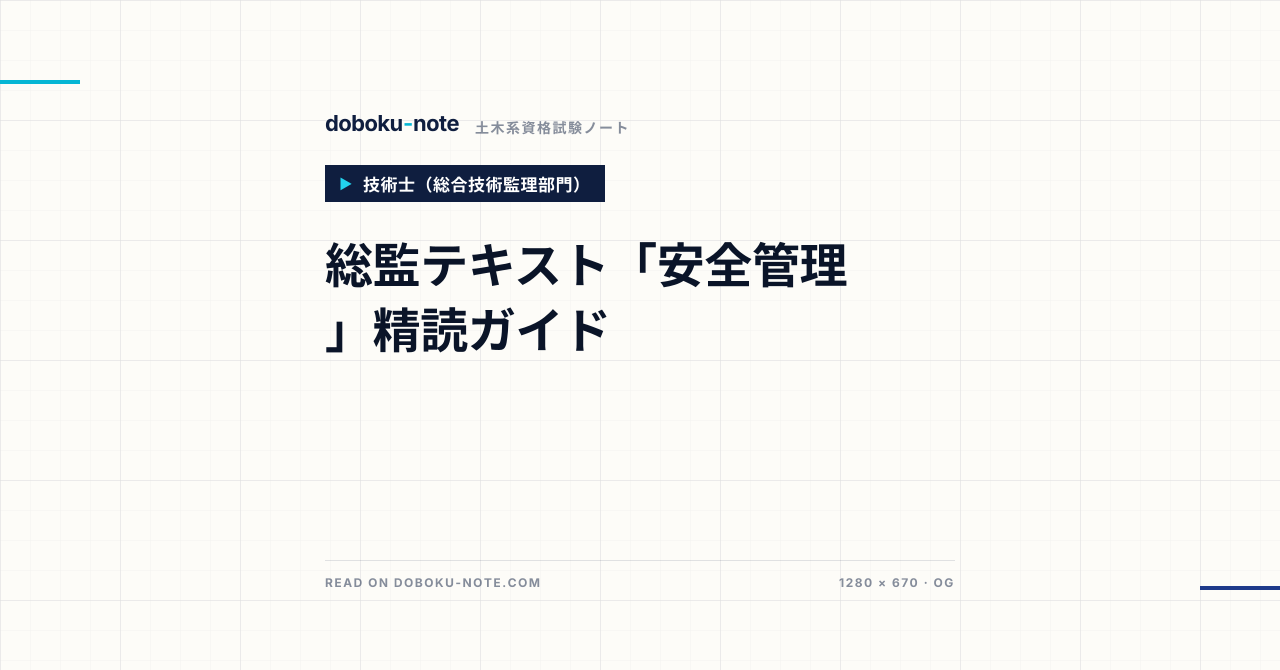
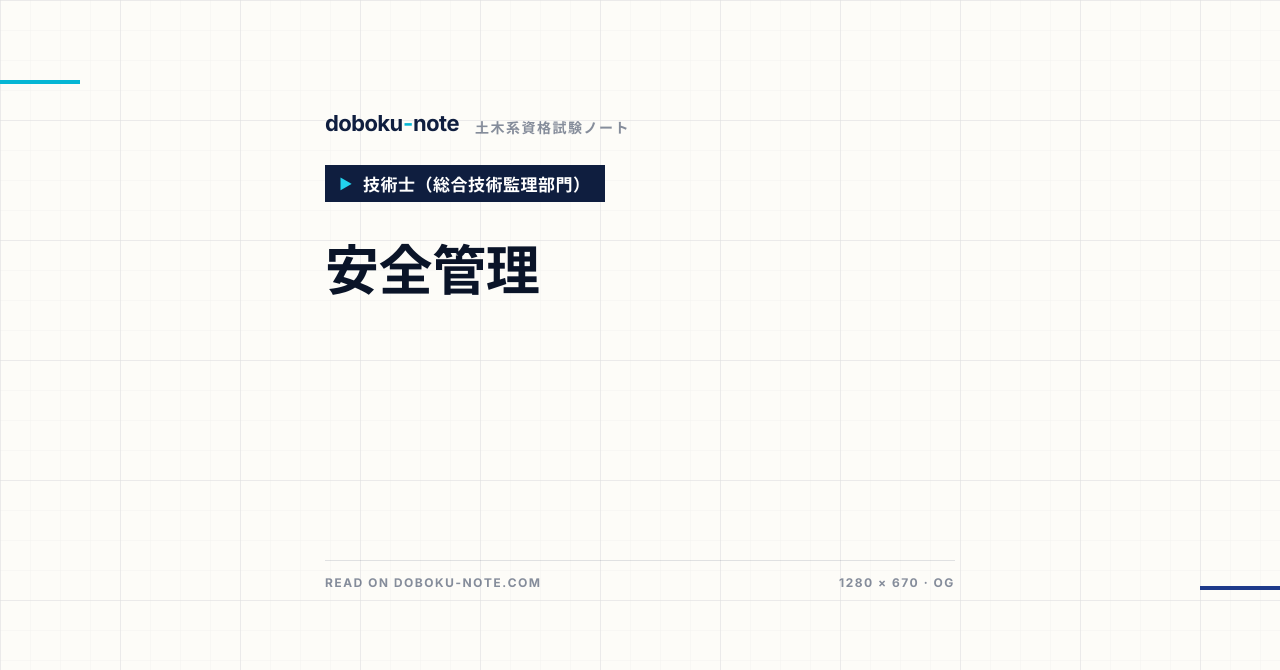
content(pe): 安全管理 note 記事の H1 とカバー画像を改善（タイトルの折り返し問題を解消）
- H1 を「総監テキスト「安全管理」精読ガイド｜...」から
  「安全管理｜総監キーワード精読ガイド｜...」に変更
- カバー画像のメインタイトルが「安全管理」（4文字）になり大きく表示
- カギ括弧の行末・行頭分割問題を解消
- シリーズ感は frontmatter の noteSeries とカテゴリチップで担保

Changed region(s): [[0.25, 0.3582, 0.4688, 0.5373], [0.5, 0.3582, 0.6562, 0.4478]]

diff --git a/docs/note/5管理-安全管理/article.md b/docs/note/5管理-安全管理/article.md
@@ -3,7 +3,7 @@ notePricing: paid
 noteSeries: 総監テキスト精読ガイド
 utmCampaign: 99-safety-management
 ---
-# 総監テキスト「安全管理」精読ガイド｜択一・記述直結キーワードリンク付き
+# 安全管理｜総監キーワード精読ガイド｜択一・記述直結リンク付き
 
 **こんな人のための記事です**
 
